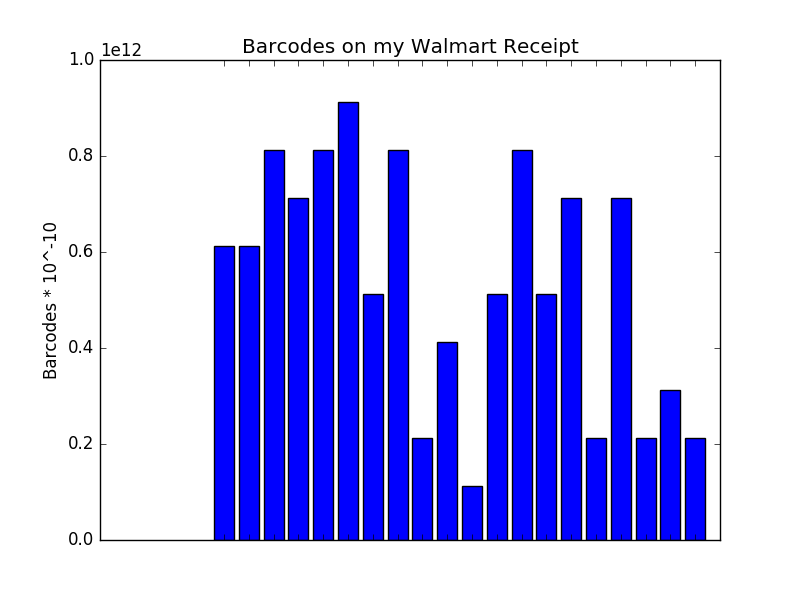
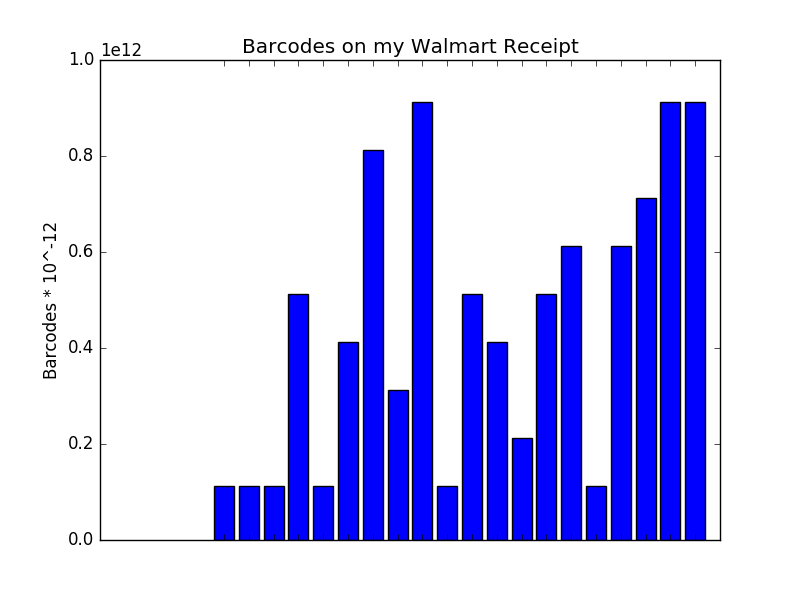
Changed Screenshot for January 16th

Changed region(s): [[0.25, 0.15, 0.9062, 0.81]]

diff --git a/pythonFiles/Jan16.py b/pythonFiles/Jan16.py
@@ -19,7 +19,7 @@ performance = barcodes
  
 plt.bar(y_pos, performance, align='center')
 plt.xticks(y_pos, objects)
-plt.ylabel('Barcodes * 10^-10')
+plt.ylabel('Barcodes * 10^-12')
 plt.title('Barcodes on my Walmart Receipt')
  
 plt.savefig('testplot.png')
